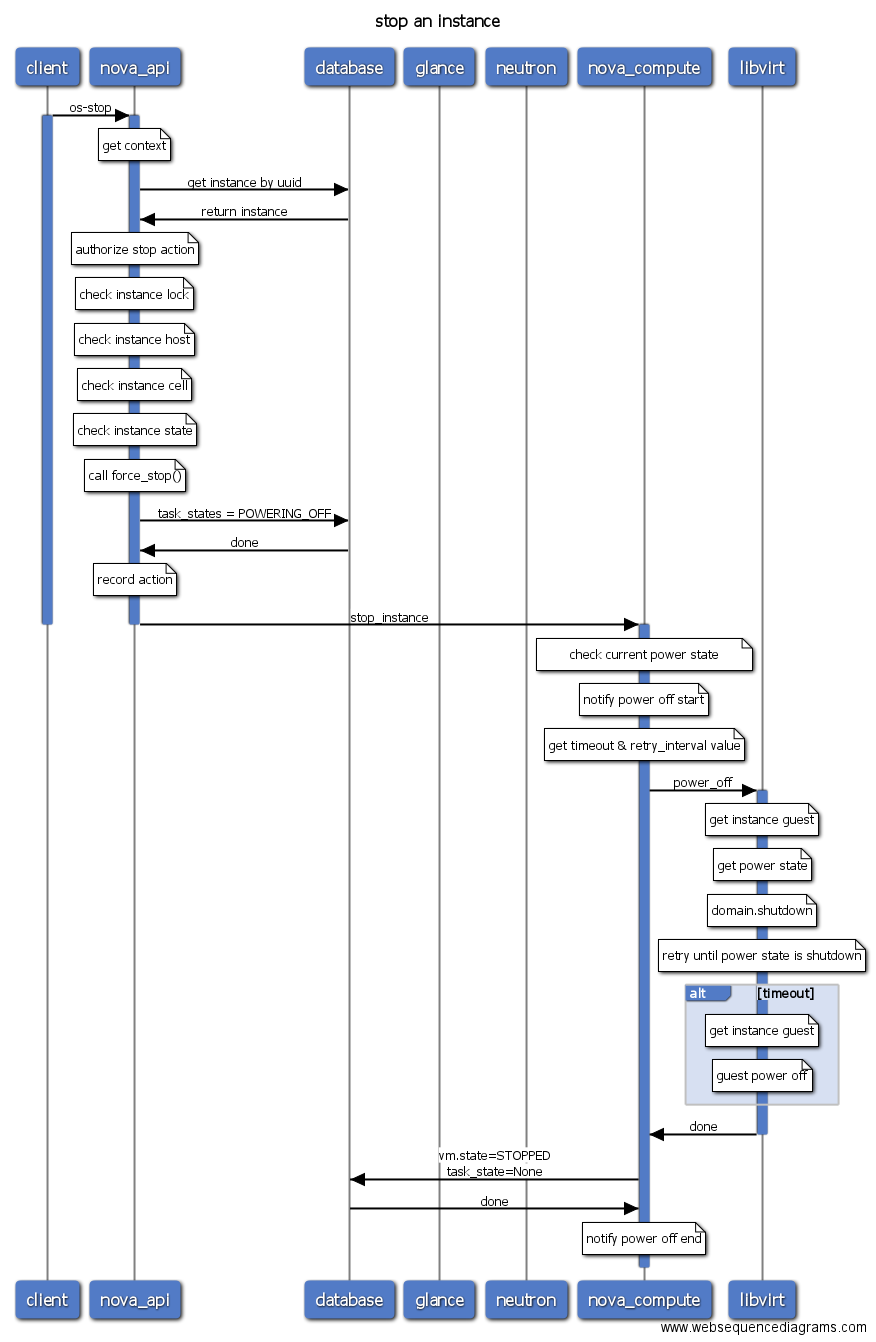
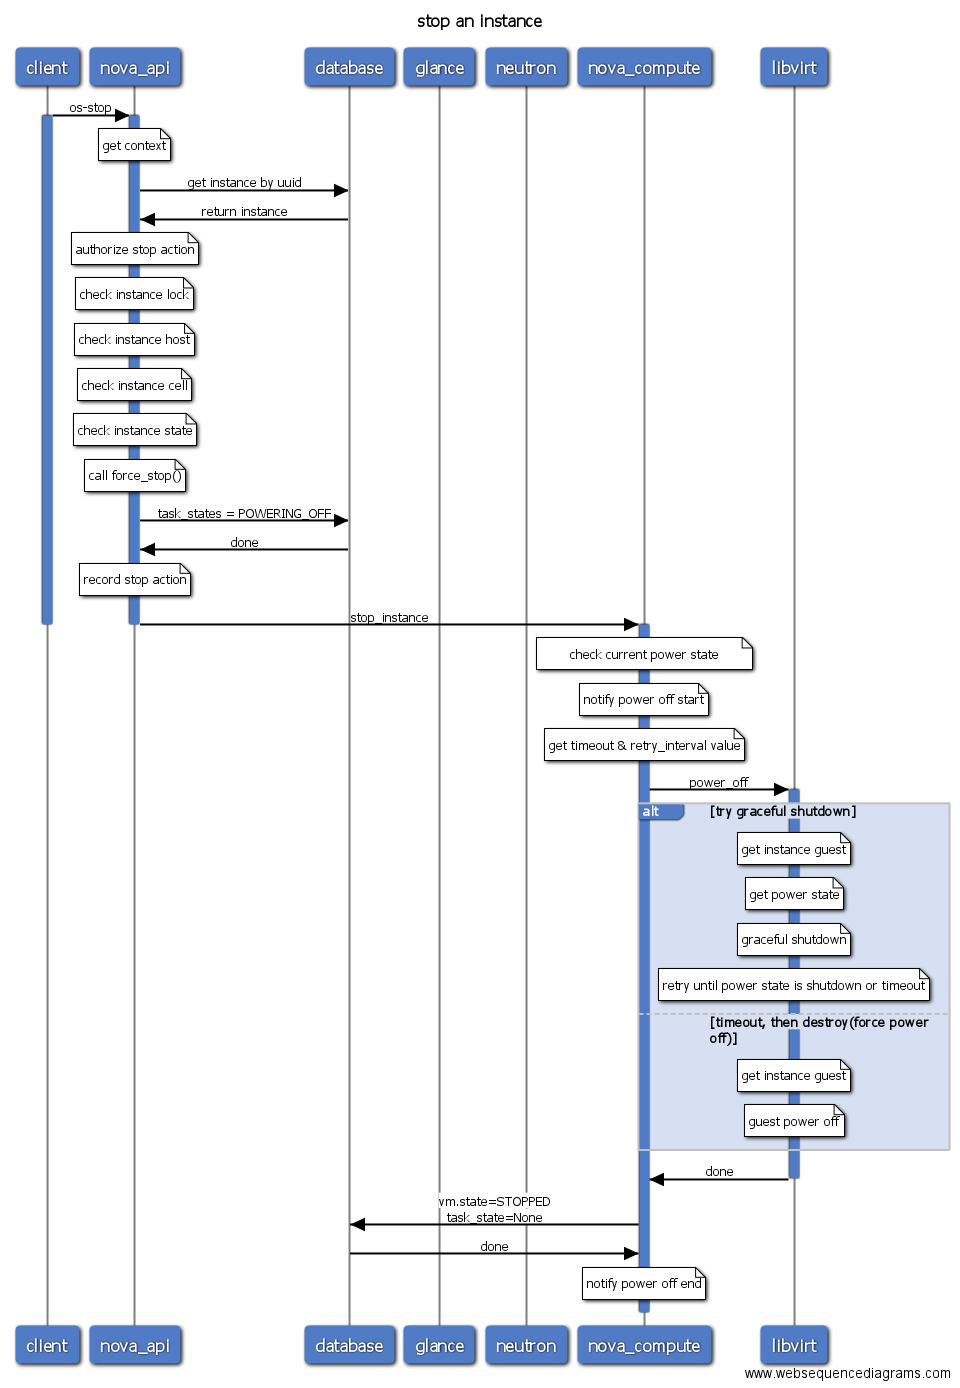
Update stop action

Changed region(s): [[0.0, 0.0, 1.0, 1.0]]

diff --git a/README.md b/README.md
@@ -1,28 +1,30 @@
 # Openstack Sequence Diagrams
 
-Draw Openstack operation sequence diagrams using[websequence diagrams tool](https://www.websequencediagrams.com/). An easiest way to track the workflow of Openstack. It may be useful for user to learn Openstack or problem troubleshooting. 
+Draw Openstack operation sequence diagrams using [Websequence Diagrams Tool](https://www.websequencediagrams.com/). An easiest way to track the workflow of Openstack. It may be useful for user to learn Openstack or problem troubleshooting. 
 
 ## Quick start
 
-### 1. Remove old diagrams
 
-If you need re-generate latest diagrams, Please cleanup the old diagrams first.
+### 1. Generate diagrams
 
-```
-make clean
-```
-
-### 2. Generate new diagrams
-
-To compile the diagrams on your localhost, ensure that your machine can access the Internet and the `make` tools hava been installed.
+To compile the diagrams on your localhost, ensure that your machine can access the Internet and the `make` tools hava been correctly installed.
 
 ```
 make
 ```
 
-All diagrams generated will be put in `./output`, just use your image viewer to show.
+All diagrams generated will be put in `./output` by default, use your image viewer to show.
 
-## Demo
+### 2. Remove diagrams
+
+To cleanup the diagrams, just run this:
+
+```
+make clean
+```
+
+
+## Some demo
 
 ### 1. Create Server Workflow
 
@@ -32,6 +34,10 @@ All diagrams generated will be put in `./output`, just use your image viewer to 
 
  
 ![reboot server](output/nova/reboot.png)
+
+### 3. Stop Server
+
+![stop server](output/nova/stop.png)
 
 
 ## Need more diagrams ?
